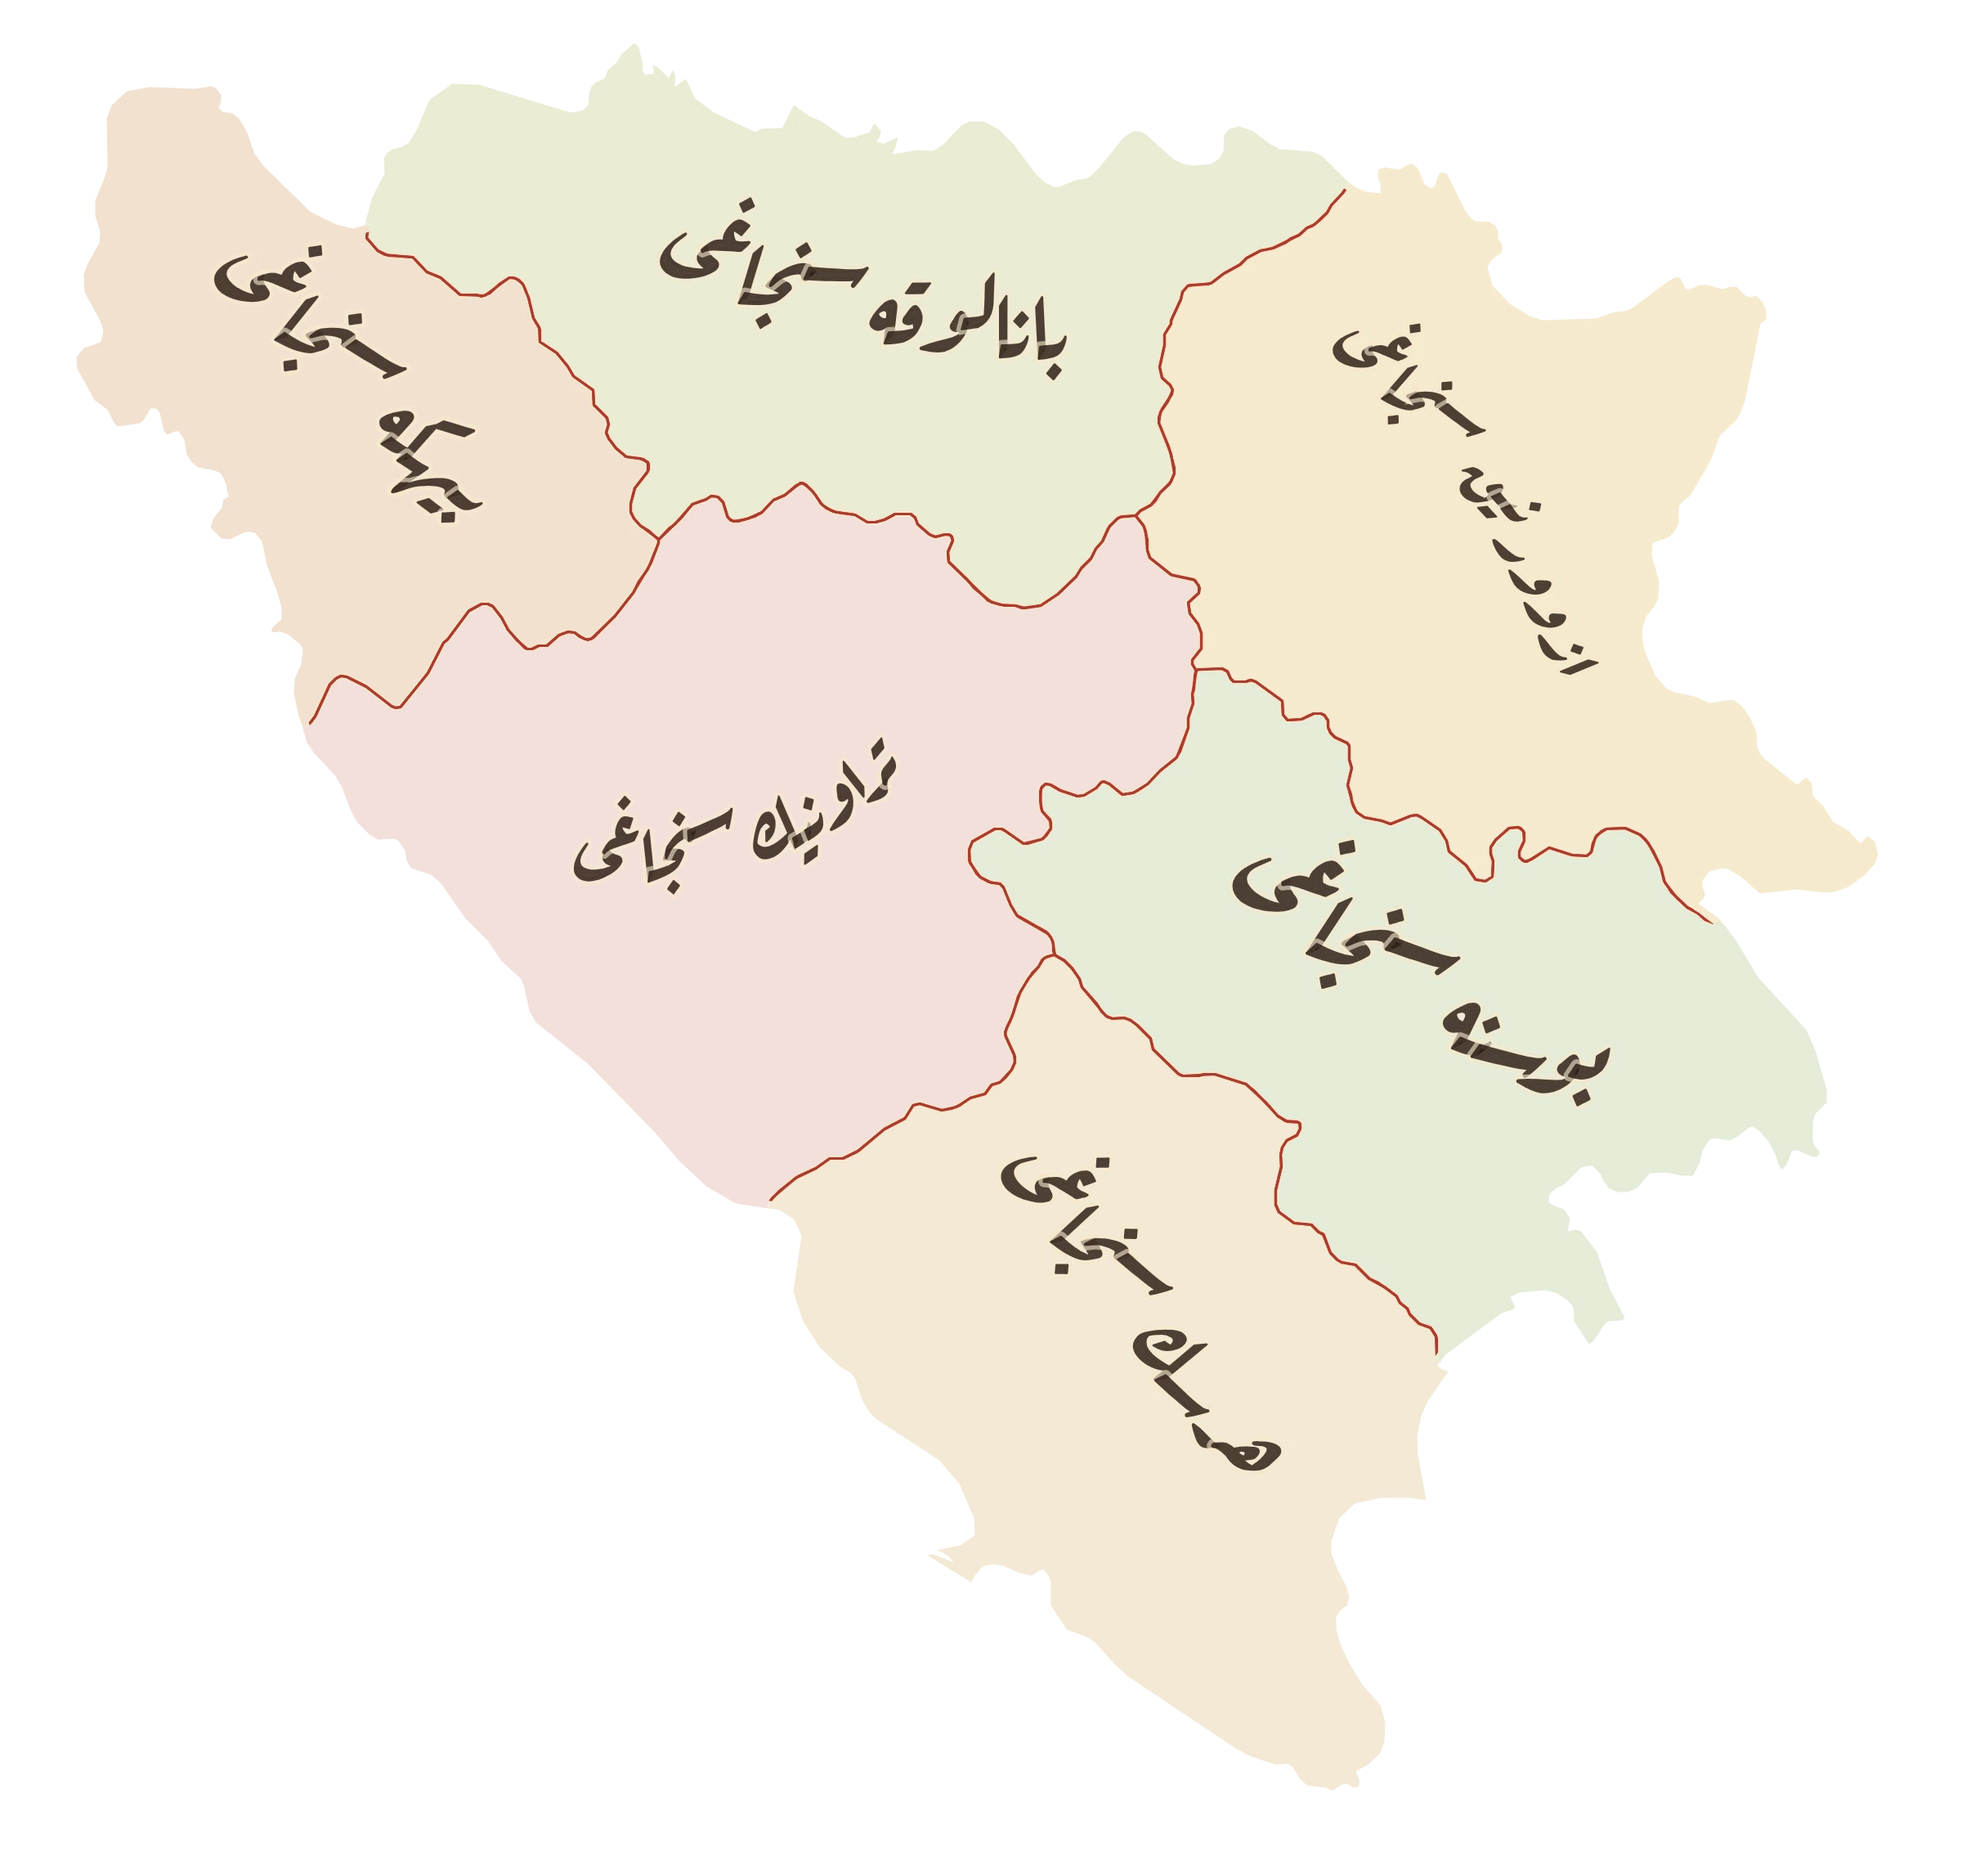
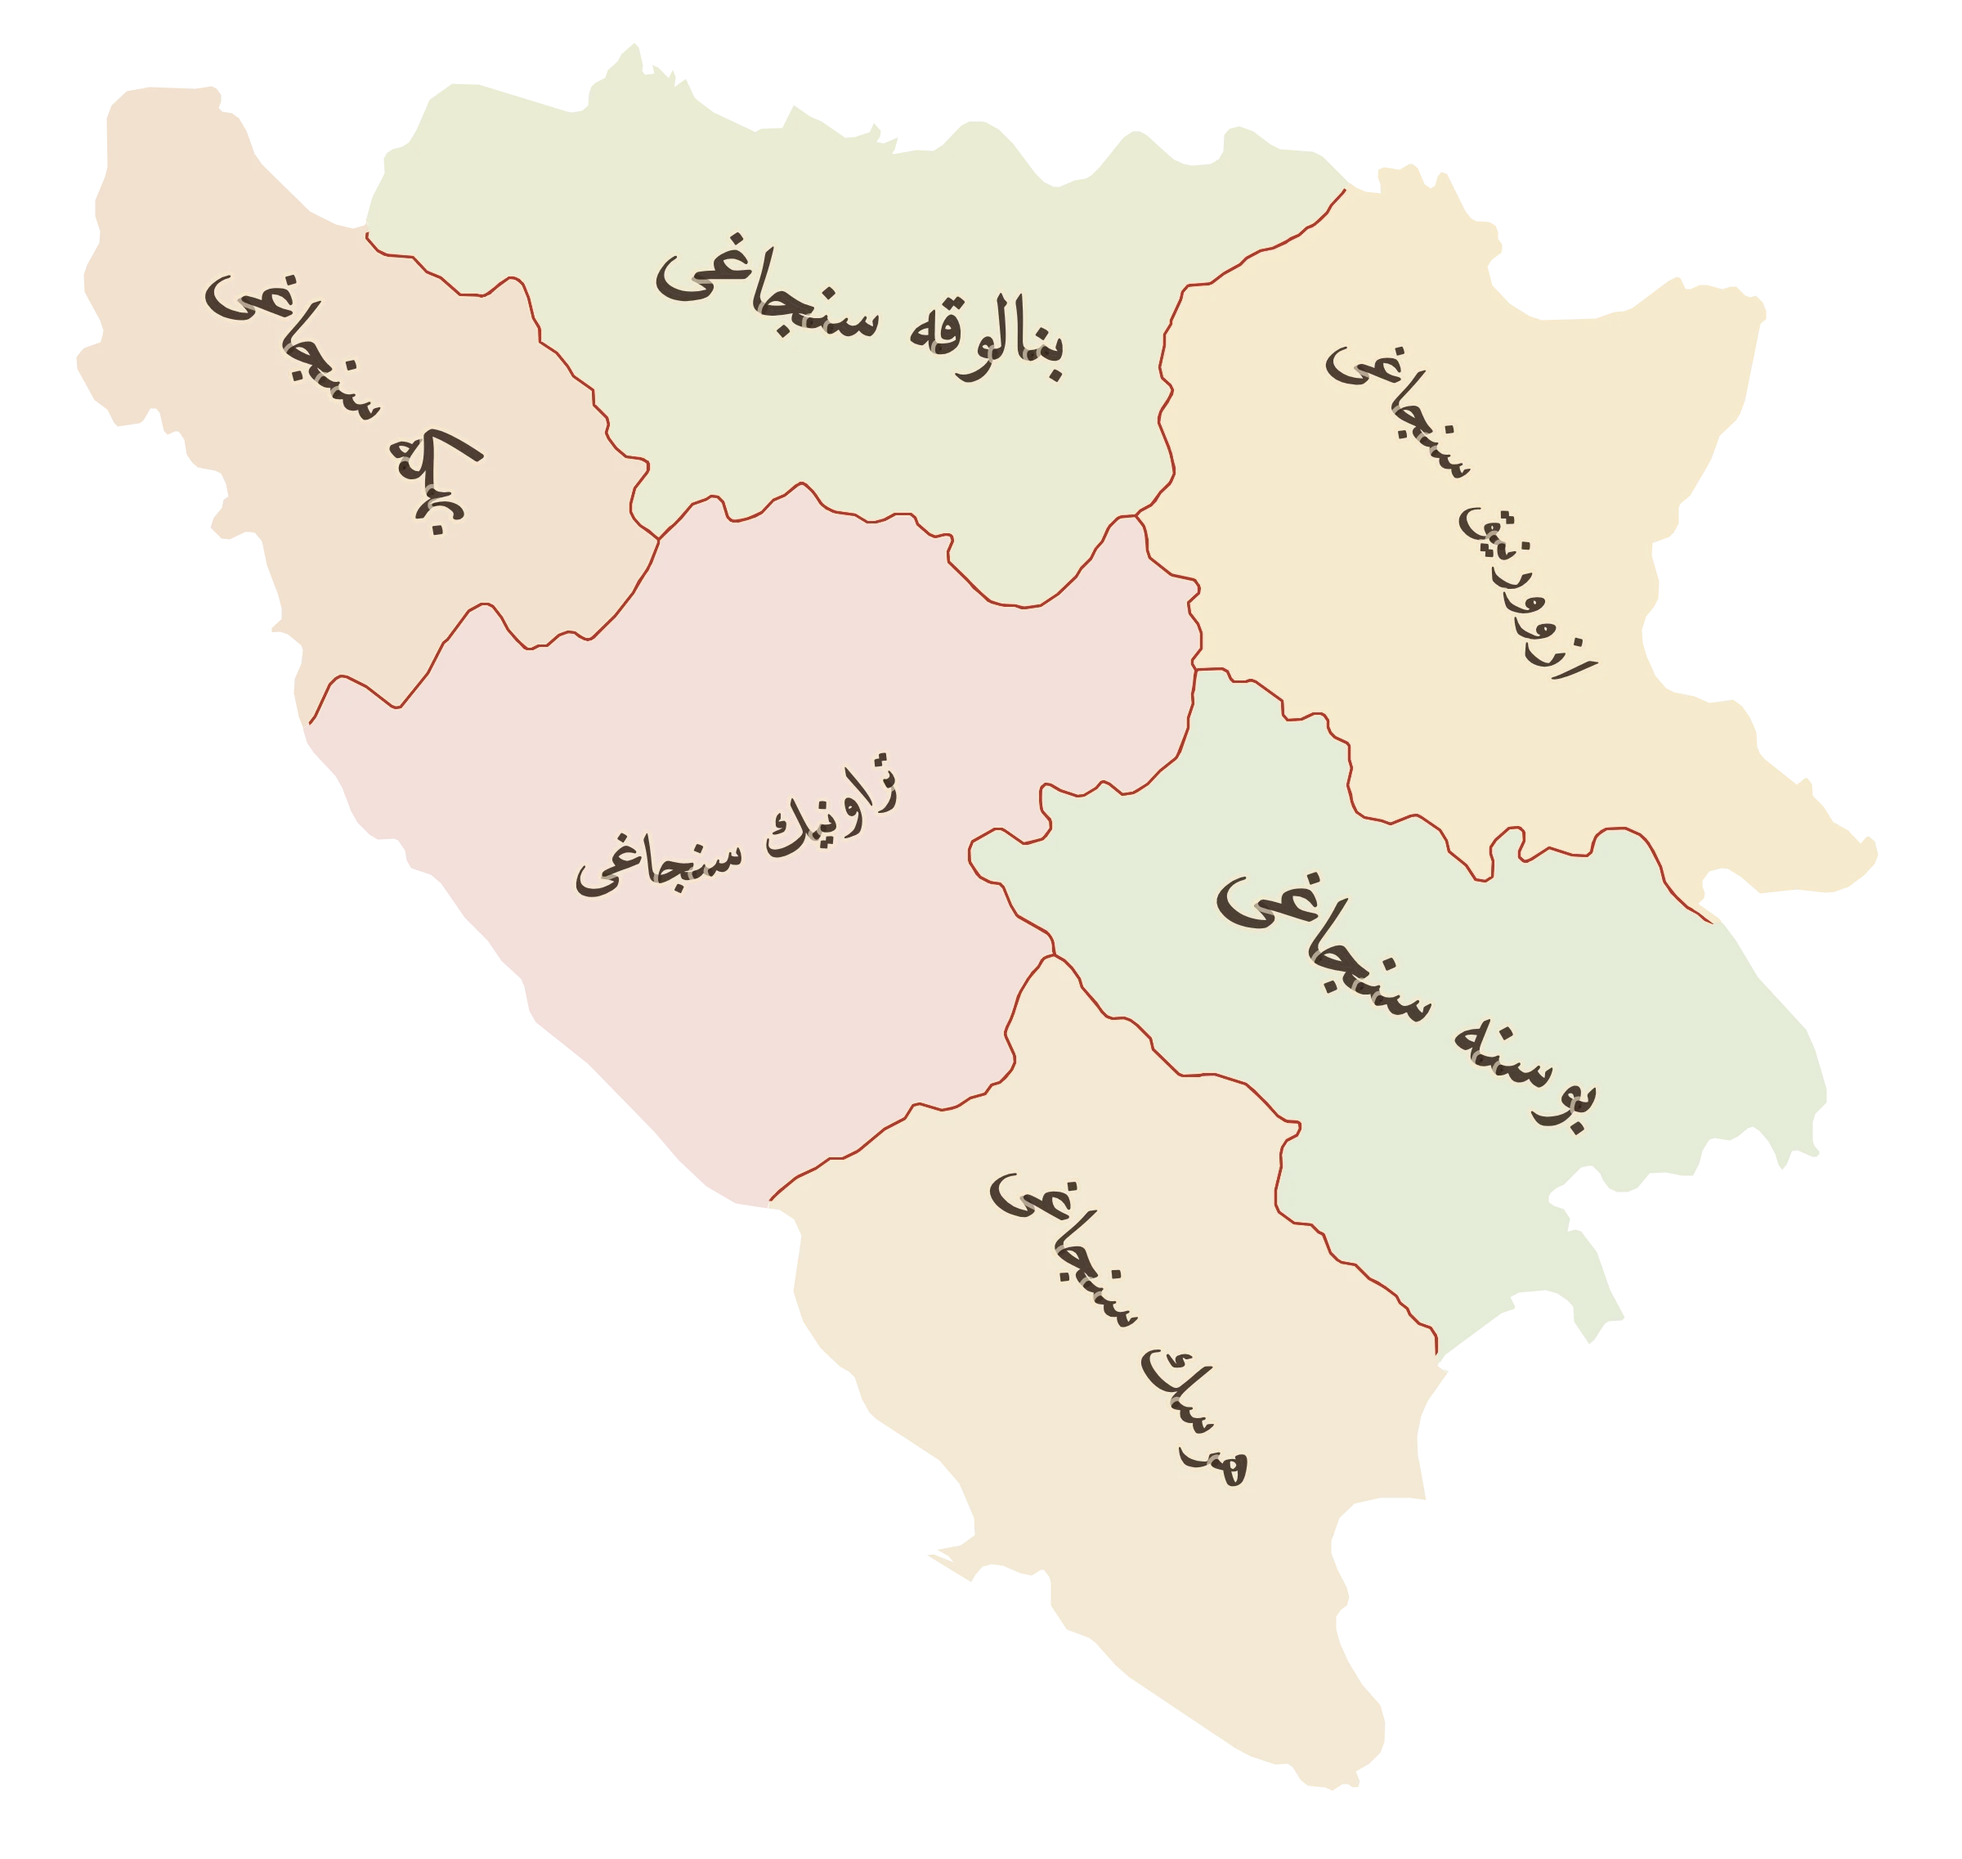
Zierschicht: Sancak-Namen in Nesih, Schreibweisen بنالوقه und بهكه
Claude-Session: https://claude.ai/code/session_01RYDkcGLJw7R3TMKLWRs6B8

diff --git a/scripts/osmanska-karta/erzeuge.py b/scripts/osmanska-karta/erzeuge.py
@@ -6,7 +6,7 @@ Mahsus Mükemmel ve Mufassal Atlas, 1907) eine eigene, frei gezeichnete
 Zierschicht:
   - die Sancak-Grenzen, nachgezeichnet und auf die heutige Landesgrenze
     zugeschnitten (näherungsweise, ± wenige Kilometer)
-  - die Namen der Sancaks in Rik'a-Kalligraphie, ausgerichtet nach der Form
+  - die Namen der Sancaks in Nesih-Kalligraphie, ausgerichtet nach der Form
     des Gebiets (wie bei Europa Universalis)
 
 Der Scan selbst wird NICHT veröffentlicht – nur das, was hier neu gezeichnet wird.
@@ -32,8 +32,8 @@ PROJEKT = HIER.parent.parent
 
 # --- Sancaks: Name (bitte prüfen!), Saatpunkt im Scan (x, y), Farbton ------------
 SANCAKS = {
-    'bihke':    {'name': 'بیهکه سنجاغی',      'saat': (200, 330),  'farbe': '#E8C9A8'},
-    'banaluka': {'name': 'بانالوقه سنجاغی',   'saat': (520, 360),  'farbe': '#D9DDB0'},
+    'bihke':    {'name': 'بهكه سنجاغی',      'saat': (200, 330),  'farbe': '#E8C9A8'},
+    'banaluka': {'name': 'بنالوقه سنجاغی',   'saat': (520, 360),  'farbe': '#D9DDB0'},
     'izvornik': {'name': 'ازوورنیق سنجاغی',   'saat': (900, 500),  'farbe': '#EFD9A6'},
     'travnik':  {'name': 'تراونیك سنجاغی',    'saat': (420, 600),  'farbe': '#E9C4BE'},
     'bosna':    {'name': 'بوسنه سنجاغی',      'saat': (900, 800),  'farbe': '#CFDDB8'},
@@ -212,7 +212,7 @@ def schreibe_svg(teile, beschriftungen, bih_pfade, w, h):
         groesse = max(34, min(0.5 * dicke, 130))
         out.append(
             f'<text class="sancak" data-ziel="{laenge*0.82:.0f}" data-max="{groesse:.0f}" '
-            f'font-family="Aref Ruqaa" font-weight="700" font-size="{groesse:.0f}" fill="{tinte}" '
+            f'font-family="Amiri" font-weight="700" font-size="{groesse:.0f}" fill="{tinte}" '
             f'fill-opacity="0.82" direction="rtl" text-anchor="middle" '
             f'paint-order="stroke" stroke="#F6E9CF" stroke-width="{groesse*0.08:.1f}" stroke-opacity="0.6">'
             f'<textPath href="#bogen-{k}" startOffset="50%">{name}</textPath></text>')

diff --git a/scripts/osmanska-karta/rendern.py b/scripts/osmanska-karta/rendern.py
@@ -11,7 +11,7 @@ from playwright.async_api import async_playwright
 
 HIER = Path(__file__).resolve().parent
 PROJEKT = HIER.parent.parent
-SCHRIFT = PROJEKT / 'node_modules/@fontsource/aref-ruqaa/files/aref-ruqaa-arabic-700-normal.woff2'
+SCHRIFT = PROJEKT / 'node_modules/@fontsource/amiri/files/amiri-arabic-700-normal.woff2'
 ZIEL = PROJEKT / 'public/karte/osmanska-zierschicht.webp'
 
 
@@ -58,7 +58,7 @@ async def main():
     w, h = meta['breite'], meta['hoehe']
     svg = (HIER / 'zierschicht.svg').read_text(encoding='utf-8')
     html = f"""<!doctype html><html><head><meta charset="utf-8"><style>
-      @font-face {{ font-family: 'Aref Ruqaa'; font-weight: 700; src: url('{SCHRIFT.as_uri()}') format('woff2'); }}
+      @font-face {{ font-family: 'Amiri'; font-weight: 700; src: url('{SCHRIFT.as_uri()}') format('woff2'); }}
       html, body {{ margin: 0; background: transparent; }}
     </style></head><body>{svg}</body></html>"""
     seite = HIER / '_render.html'

diff --git a/README.md b/README.md
@@ -86,7 +86,7 @@ Die Seite ist so gebaut, dass sie überall läuft: `npm run build` erzeugt den O
 
 ## Osmanische Zierschicht der Karte
 
-In der Übersicht liegt über der Karte eine Zierschicht im Stil des osmanischen Atlasblatts *Bosna Vilayeti* (1907): die Sancak-Grenzen (näherungsweise, auf die heutige Landesgrenze zugeschnitten) und die Namen der Sancaks in Rik'a-Kalligraphie, ausgerichtet nach der Form des Gebiets. Beim Hineinzoomen blendet sie aus.
+In der Übersicht liegt über der Karte eine Zierschicht im Stil des osmanischen Atlasblatts *Bosna Vilayeti* (1907): die Sancak-Grenzen (näherungsweise, auf die heutige Landesgrenze zugeschnitten) und die Namen der Sancaks in Nesih, ausgerichtet nach der Form des Gebiets. Beim Hineinzoomen blendet sie aus.
 
 Die Schicht ist neu gezeichnet; der Scan selbst wird nicht veröffentlicht. Neu erzeugen (z. B. nach Korrektur eines Namens in `scripts/osmanska-karta/erzeuge.py`):
 ```
